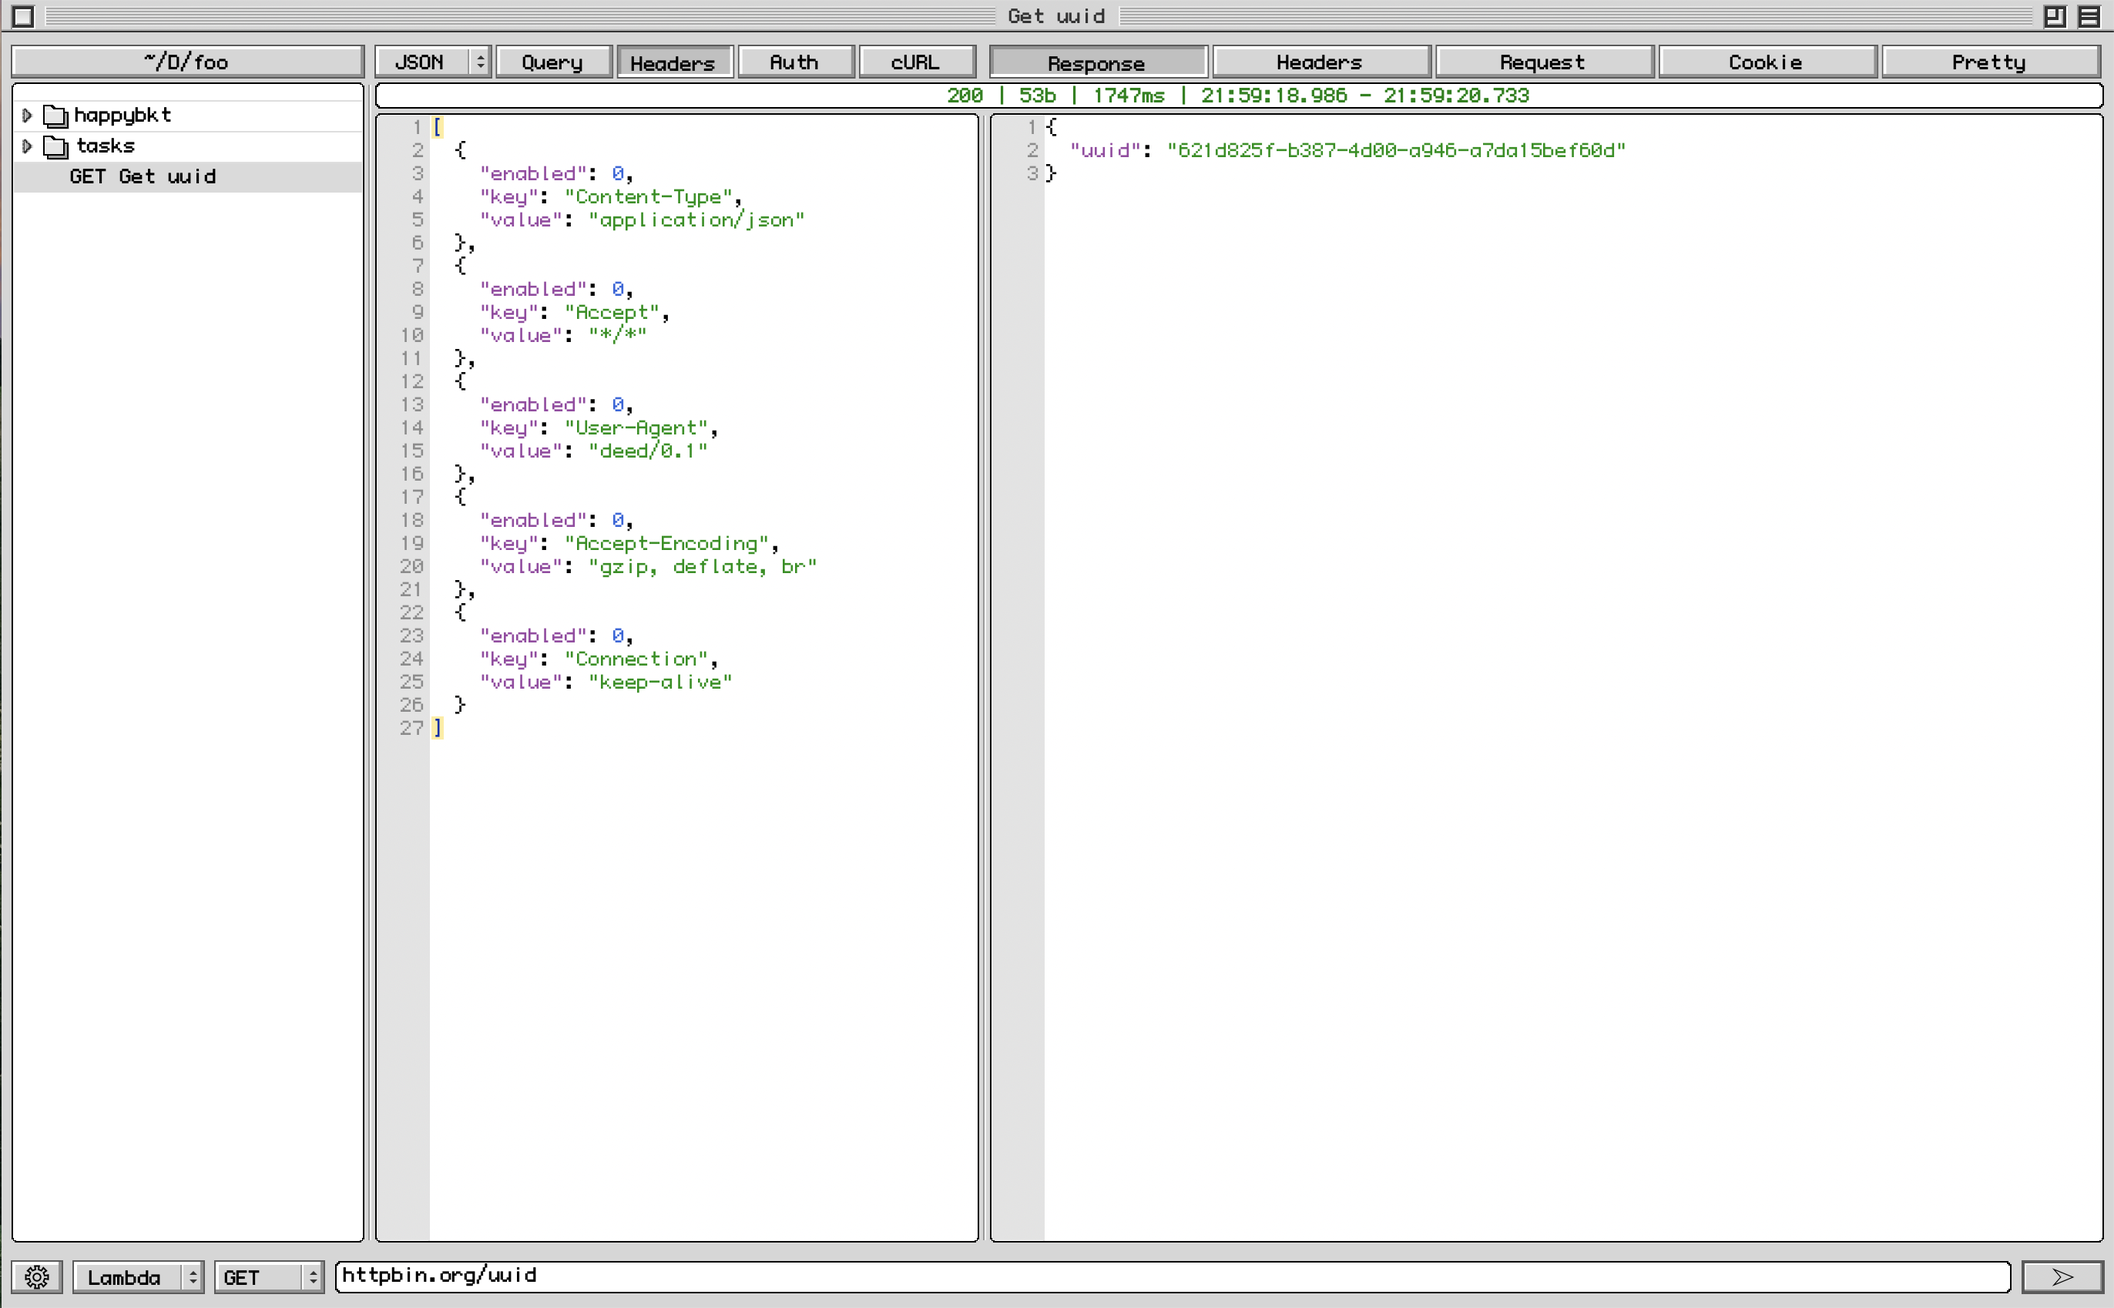
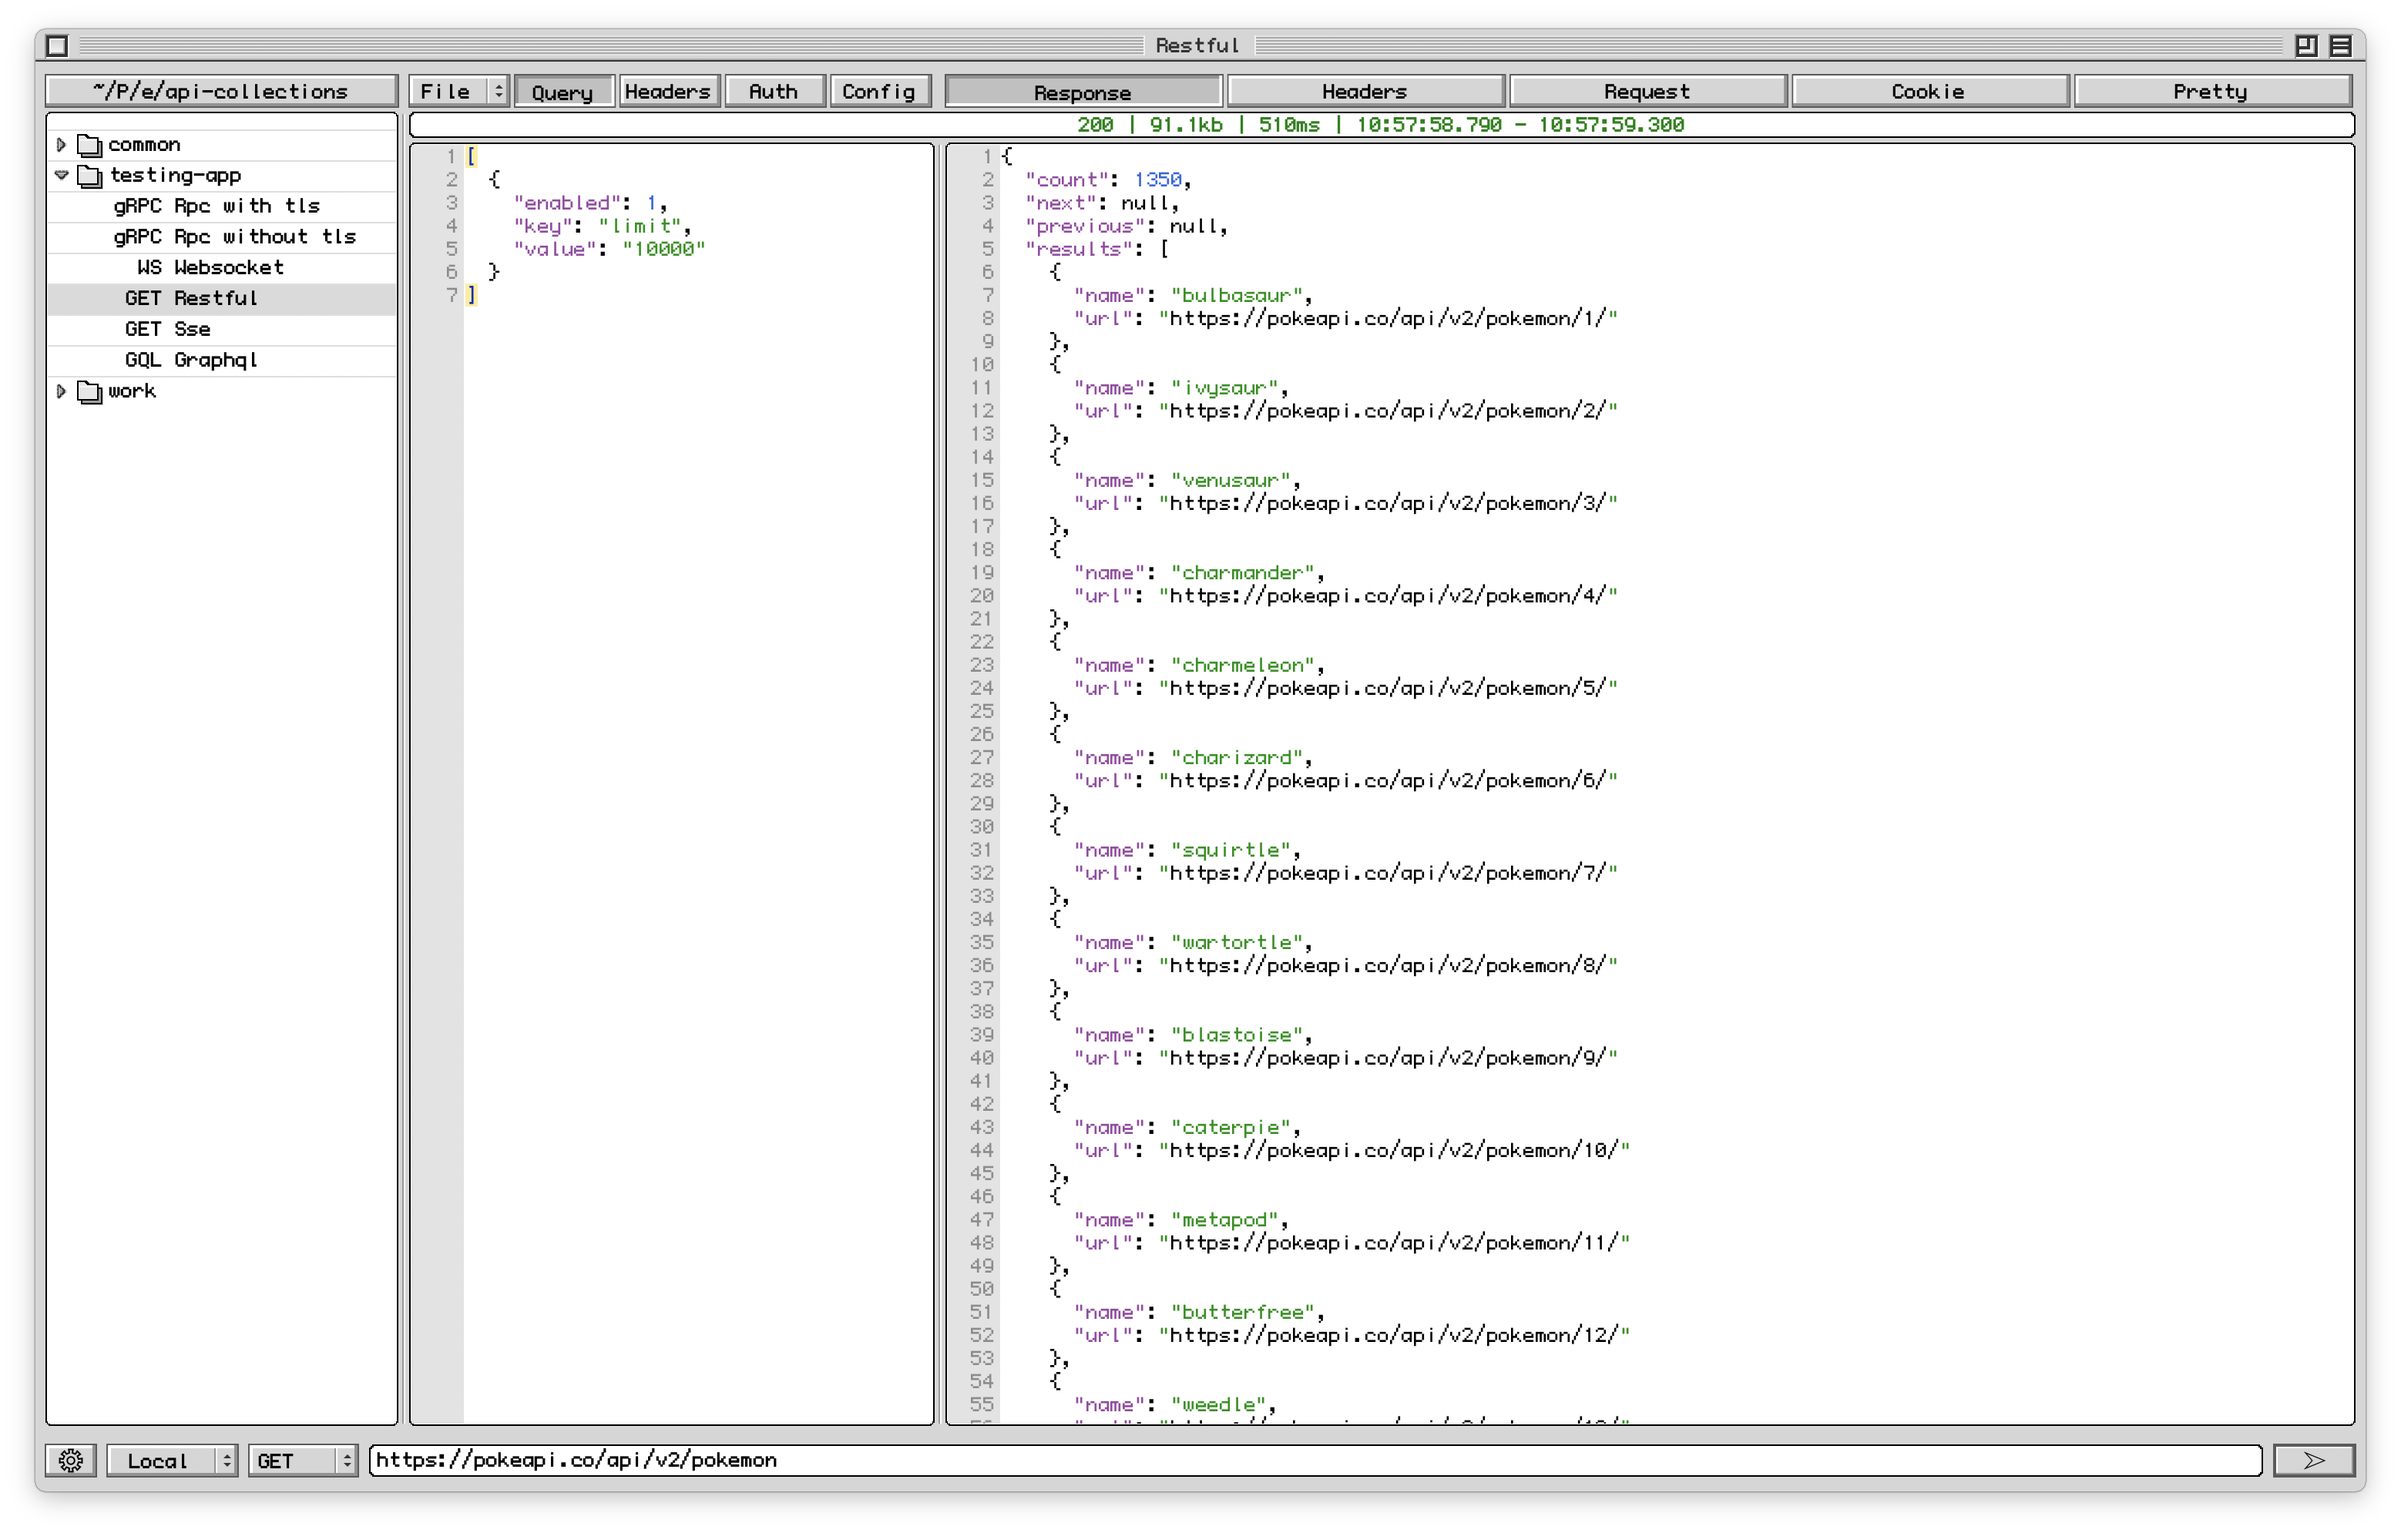
update readme

Changed region(s): [[0.0, 0.0, 1.0, 1.0], [0.6195, 0.8428, 0.6505, 0.874], [0.6195, 0.7491, 0.6505, 0.7803]]

diff --git a/README.md b/README.md
@@ -1,25 +1,67 @@
-<h1 align="center">Deed</h1>
-
 ![Deed main](assets/images/main.png)
 
-<h1 align="center">Deed is MacOS native API client</h1>
+<h1 align="center">Deed ✨</h1>
+<p align="center"> A lightweight, native macOS API client in retro Mac OS 9 style that speaks REST/HTTP, SSE, gRPC, WebSocket, and GraphQL from a single <=50 MB binary. </p>
 
-Supported type of request:
+![Author](https://img.shields.io/static/v1?label=author&message=Thep200&color=0284c7)
+![License](https://img.shields.io/static/v1?label=init-date&message=01-05-2026&color=7e22ce)
+![GitHub stars](https://img.shields.io/github/stars/Thep200/deed?style=flat&color=eab308)
+![GitHub license](https://img.shields.io/github/license/Thep200/deed?color=16a34a)
 
-- REST/HTTP
-- gRPC (unary)
+- [Overview](#overview)
+- [Installation](#installation)
+- [Features](#features)
+- [Techstack](#techstack)
+- [Configuration](#configuration)
+  - [Global config](#global-config)
+  - [Environments](#environments)
+- [Request type](#request-type)
+  - [Config](#config)
+  - [RESTFUL HTTP](#restful-http)
+    - [Request Body](#request-body)
+    - [Request Headers](#request-headers)
+    - [Request Query](#request-query)
+    - [Request Auth](#request-auth)
+    - [Response Body](#response-body)
+    - [Response Headers](#response-headers)
+    - [Response Request](#response-request)
+  - [SSE](#sse)
+  - [gRPC](#grpc)
+  - [Websocket](#websocket)
+  - [GraphQL](#graphql)
+- [Releases](#releases)
+
+# Overview
+
+Supports:
+
+- RESTFUL / HTTP
+- SSE
+- gRPC
+- WebSocket
+- GraphQL
+
+# Installation
+
+Currently, I'm still shipping deed files as `.app`. Please download the latest version from the release section to use it. Features for upgrading the app and shipping `.dmg` files will be implemented soon.
 
 # Features
 
 - Light weight
-- Theme retro MacOS
-- REST / HTTP
-- gRPC (unary)
-- Collection tree (lazy load)
+  - Single binary
+  - App size <50MB
+  - Runtime memory <150MB for normal usage
+- Vintage theme MacOS 9 style
+- RESTFUL / HTTP
+- SSE
+- gRPC
+- WebSocket
+- GraphQL
+- Lazy load collection tree
 - Request editor (JSON)
 - Response viewer (JSON)
 - Environment & Alias
-- Import curl
+- Import curl, gRPC
 
 # Techstack
 
@@ -31,10 +73,236 @@ Supported type of request:
 - nlohmann/json
 - CMake + Ninja
 
-# Upcomming features
+# Configuration
 
-- Search & filter
-- gRPC streaming
+## Global config
+
+```json
+{
+  "font_name": "Monaco 9",
+  "font_size": 21,
+  "ram_cache_size": 32,
+  "disk_cache_size": 256
+}
+```
+
+Deed caches responses in two tiers, RAM and disk:
+
+* The RAM cache can be set up to **128 MB**.
+* The disk cache can be set up to **512 MB**.
+
+`ram_cache_size` and `disk_cache_size` are the levels you choose; anything higher than the limits above is capped automatically.
+
+## Environments
+
+There are no global environments yet — it may be added later. When you import a cURL or gRPC command, Deed automatically creates the matching aliases for you.
+
+Use `{{key}}` anywhere a value is accepted (URL, headers, query, auth, gRPC metadata, …) to insert an environment value. If a key doesn't exist it's left as-is (`{{key}}`) and flagged; if it exists but is empty it becomes an empty string.
+
+An environment file is just a list of keys:
+
+```json
+{
+  "schemaVersion": 1,
+  "keys": [
+    {
+      "key": "baseUrl",
+      "value": "https://api.example.com",
+      "enabled": 1
+    },
+    {
+      "key": "token",
+      "value": "eyJhbGciOiJI...",
+      "enabled": 1
+    }
+  ]
+}
+```
+
+> **NOTE:** Secrets are **not** encrypted yet, so double-check your environment files before syncing them to GitHub.
+
+# Request type
+
+Give the app 30 minutes hands-on and this will all click — but here's the reference.
+
+Each request has editing tabs on the **left** and a read-only response on the **right**. Whatever you fill into the tabs is saved to one small JSON file per request, so you can keep an entire collection in a folder and sync it with git.
+
+> Files don't support comments. To turn a single line in **Headers**, **Query**, or **Metadata** on or off, set its `enabled` to `0` instead of deleting it.
+
+## Config
+
+The **Config** tab (the last left-hand tab, on every request type) holds two settings shared by all types:
+
+```json
+{
+  "timeout_ms": 1800000,
+  "tls": true
+}
+```
+
+- `timeout_ms` — how long to wait before giving up. For HTTP/GraphQL it's the request timeout, for gRPC the deadline, for WebSocket the idle timeout.
+- `tls` — verify the server's TLS certificate (for gRPC, connect over a secure channel).
+
+> The **Pretty** button has four modes — **Pretty / Raw / Encode / Decode**. Click into the pane you want it to act on first, then press it.
+
+## RESTFUL HTTP
+
+Paste a `curl` command straight into the URL field and Deed turns it into a new request automatically.
+
+### Request Body
+
+The **Body** tab uses one mode at a time. Pick the mode that matches what you're sending.
+
+No body:
+
+```json
+{}
+```
+
+JSON:
+
+```json
+{
+  "name": "deed"
+}
+```
+
+Form (URL-encoded):
+
+```json
+[
+  {
+    "key": "",
+    "value": "",
+    "enabled": true
+  }
+]
+```
+
+File - Binary:
+
+```json
+{
+  "filePath": "/thep200/deed/foo.bin"
+}
+```
+
+### Request Headers
+
+The **Headers** tab is a list of key/value lines. Duplicate keys are allowed. Set `enabled` to `0` to keep a line but skip sending it.
+
+```json
+[
+  {
+    "key": "Content-Type",
+    "value": "application/json",
+    "enabled": 1
+  },
+  {
+    "key": "X-Debug",
+    "value": "1",
+    "enabled": 0
+  }
+]
+```
+
+### Request Query
+
+Deed auto parse and cut query in URL into tab for you.
+
+URL: localhost:8080/api/products?limit=1000
+
+```json
+[
+  {
+    "enabled": 1,
+    "key": "limit",
+    "value": "1000"
+  }
+]
+```
+
+### Request Auth
+
+The **Auth** tab offers four types: **None**, **Basic**, **Bearer**, and **API key**.
+
+None:
+
+```json
+{
+  "type": "none"
+}
+```
+
+Basic — username and password:
+
+```json
+{
+  "type": "basic",
+  "basic": {
+    "username": "admin",
+    "password": "s3cret"
+  }
+}
+```
+
+Bearer — a token:
+
+```json
+{
+  "type": "bearer",
+  "bearer": {
+    "token": "{{token}}"
+  }
+}
+```
+
+API key, sent as a header (`in` = `"header"`):
+
+```json
+{
+  "type": "apikey",
+  "apikey": {
+    "key": "X-API-Key",
+    "value": "{{apiKey}}",
+    "in": "header"
+  }
+}
+```
+
+### Response Body
+
+The **Response** tab (read-only) shows the response body, pretty-printed when it's JSON.
+
+### Response Headers
+
+The right-hand **Headers** tab (read-only) lists the response headers exactly as the server returned them. Any `Set-Cookie` values also appear in the **Cookie** tab.
+
+### Response Request
+
+The right-hand **Request** tab (read-only) shows the exact request that was sent — after variables are substituted, auth is applied, and disabled lines are removed. Handy for checking what the server actually received.
+
+## SSE
+
+Server-Sent Events is simply an HTTP request that streams. You add `Accept: text/event-stream` header into http request and deed do the rest.
+
+![SSE](assets/images/sse.png)
+
+## gRPC
+
+Deed auto reflect schema to get rpc if server enable
+
+![gRPC](assets/images/grpc.png)
+
+## Websocket
+
+![Websocket](assets/images/ws.png)
+
+## GraphQL
+
+Deed haven't supported instrospect yet.
+
+![GraphQL](assets/images/graphql.png)
 
 # Releases
 
@@ -43,5 +311,5 @@ The asset is `deed-<version>-macos-arm64.zip`.
 The app is **ad-hoc signed** (not notarized with a Developer ID), so on first launch
 macOS Gatekeeper blocks it. To open it:
 
-- Right-click the app → **Open** → **Open**, or
-- Remove the quarantine flag: `xattr -dr com.apple.quarantine /Applications/deed.app`
+* Right-click the app → **Open** → **Open**, or
+* Remove the quarantine flag: `xattr -dr com.apple.quarantine /Applications/deed.app`
